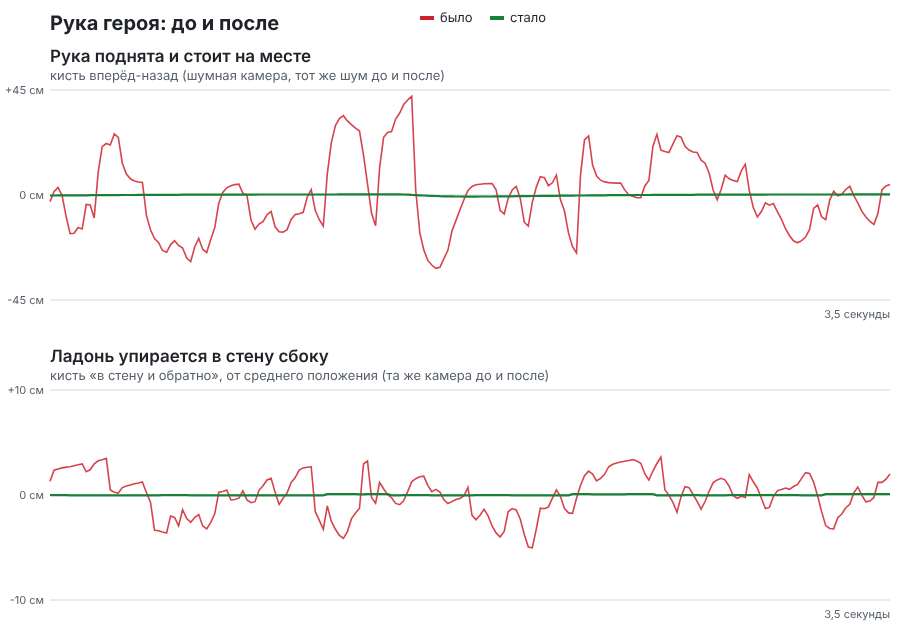
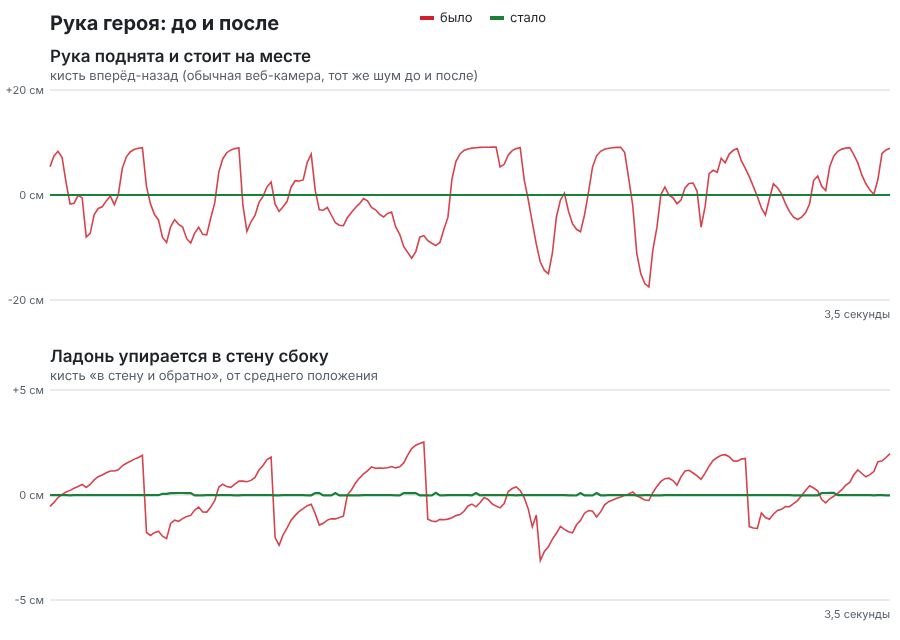
Рука: совместно с выносом вперёд сессии кистей — одно сглаживание (PoseSmoother), свой фильтр только на очень шумной камере
После вливания «Кисти V5» (PoseSmoother.PREDICT) моё сглаживание направлений руки делало медленный прицел палочкой
в 2–3 раза позже (pointing.test: ведение 145 → 400 мс), а вынос вперёд на шумной камере ловил шум.

- DirFilter включается по шуму камеры игрока (рывок направлений, выученный в покое — noise(), NOISY_LO/HI): обычная камера —
  без своего сглаживания (прицел: 90 / 100 / 140 мс при пределах 100 / 105 / 150), очень шумная — полностью
- остаётся всё, что убирает саму дрожь: полоса «в плоскости» по шуму, мягкая глубина, гистерезис стороны, сглаженная глубина,
  плавное перекидывание стороны; упор в стену без обратной связи
- armstab: обычная камера (как 720p в pointing.mjs) и очень шумная; до → после: покой 6…10 см / 3…4° → ≤ 1,4 см / 0,9°,
  шумная 18…21 см / 8…10° → ≤ 5,6 см / 4,1°; взмахи 48 → 41…47 мс; у стены плечо сквозь стену 38 см → 0, рывки до 18 см → ≤ 3,4;
  на очень шумной камере у стены рывки 10–35 см остаются (было 6–51) — вынос вперёд ловит шум, решать с сессией кистей
- снимок docs/media/arm-before-after.png пересобран на итоговом коде

Claude-Session: https://claude.ai/code/session_01Mpy7cnnFvsKTeaQNMqBwzz

diff --git a/src/entities/ArmSolver.js b/src/entities/ArmSolver.js
@@ -49,28 +49,35 @@ export const ARM = {
     PLANE_E: 0.2, // the depth's softness at the plane (planeDepth)
     NOISE_K: 3.5, DZ_LO: 0.02, DZ_HI: 0.08,
     NOISE_PX: 0.0028, // the prior: the camera's noise on a segment's length in the picture (height units; ≈ 1 cm of a real arm)
-    NOISE_MEAN: 0.12, NOISE_T: 2.0, // s: the length's own mean (its noise is what is off it); how slowly the noise is learnt
+    NOISE_INIT2: 6.4e-5, // (rad²: the jerk's start — a fair camera until it shows otherwise)
+    NOISE_INIT: 0.01, NOISE_MEAN: 0.12, NOISE_T: 1.5, // s: the length's own mean (its noise is what is off it); how slowly the noise is learnt
     NOISE_STILL: 1.2, // rad/s: only while the segment barely turns (a moving arm's length changes on purpose)
     REBASE: 0.3, // a side changing with the segment nearer the plane than this (of its length) glides there (DirFilter.rebase)
     SIGN_HYST: 0.06, // a side (in front / behind) changes only when the other is better by this much (no flicker on noise)
-    // the drawn directions, an adaptive 1€ on each segment's direction (the joints' angles, not the points): still — barely
-    // moves (the noise cut), moving — follows at once (a swing, a throw keep their speed: tools/armstab.mjs, throwbench)
-    F_MIN: 0.4, // Hz: the cutoff when still
+    // the drawn directions on a VERY noisy camera only: an adaptive 1€ on each segment's direction (DirFilter); a usual camera's
+    // arm is smoothed once, by PoseSmoother (whose carry ahead the wand's aim needs: tools/handbench/pointbench.mjs)
+    F_MIN: 0.4, // Hz: the cutoff when still (a very noisy camera)
     F_BETA: 12, // Hz more per rad/s of the arm's turn …
     F_W0: 1.2, // … past this (rad/s: the camera's noise, averaged, looks like a slow turn — it must not open the filter)
     F_DCUT: 3, // Hz: how fast the turn's speed is followed
     F_MAX: 30, // Hz
+    ONE_LO: 0.65, // one way: |the averaged velocity| ÷ the averaged |step| (the noise ≈ 0.3…0.5, a move ≈ 1) — under it, noise
+    // how noisy the camera is: the directions' jerk (a smooth move has next to none; a picture's noise is a kink), learnt while
+    // the input wanders every way: under NOISY_LO — a usual camera (tools/handbench/pointing.mjs's 720p webcam: ~0.008…0.014),
+    // the filter off; from NOISY_HI — a very noisy one (tools/armstab.mjs ×1: ~0.02…0.03), the filter full
+    NOISY_LO: 0.018, NOISY_HI: 0.026, J_STILL: 0.3, // (… learnt only while it turns slower than J_STILL rad/s)
     D_MIN: 1, // Hz: a segment's depth (out of the picture's plane) when the arm is still …
-    D_NEAR: 0.25, D_FAR: 60, // … and at once when it is well out of the plane (> D_NEAR of the segment: the noise there is small)
     D_JUMP: 0.1, D_FAST: 80, // … and at once when it changes by more than this share of the segment (a real move in depth)
 };
 
 /**
  * A unit direction's adaptive 1€ filter (pure, fixed memory): the cutoff from the turn's speed — the signed velocity averaged
  * (the camera's noise mostly cancels in it, unlike |the step|, which the noise alone keeps high) — past a dead band: still —
- * F_MIN (the noise cut), turning — up to F_MAX (a swing, a throw keep their speed). tools/armstab.mjs chose the numbers:
- * the camera's noise, already smoothed upstream (PoseStabilizer), is a slow wander no filter tells from a slow move without a
- * lag — these halve it and keep a swing ≤ 60 ms late; a hard or soft dead band, a look ahead gave less for more lag.
+ * F_MIN (the noise cut), turning — up to F_MAX (a swing, a throw keep their speed). Applied by how noisy the camera is (k:
+ * the directions' jerk learnt — noise()): a usual camera — not at all (PoseSmoother is the one smoothing, the wand's aim keeps
+ * its lead), a very noisy one — fully. It also knows the turn's speed (w) for the solver, and glides over a side the solver
+ * flipped (rebase). tools/armstab.mjs + tools/handbench/pointbench.mjs chose the numbers: a filter strong enough to still a
+ * usual camera's arm made a slow aim 2–3 times later — the wand's aim wins there.
  */
 export class DirFilter {
     constructor(o = ARM) {
@@ -78,22 +85,37 @@ export class DirFilter {
         this.x = 0; this.y = 0; this.z = 0; // what is drawn
         this.px = 0; this.py = 0; this.pz = 0; this.vx = 0; this.vy = 0; this.vz = 0; // the input before, its velocity
         this.w = 0; // the turn's speed now (rad/s)
+        this.m = 0; // the averaged size of its steps (rad/s)
+        this.qx = 0; this.qy = 0; this.qz = 0; this.j2 = -1; // the input two frames back; its jerk² averaged (the camera's noise: a
+        // smooth move, however slow or fast, has next to none — a picture's noise is a kink)
     }
     reset() { this.on = false; this.w = 0; }
     /** The input jumps here by itself (the solver chose the other side): not a turn — it must not open the filter. */
-    rebase(x, y, z) { if (this.on) { this.px = x; this.py = y; this.pz = z; } }
+    rebase(x, y, z) { if (this.on) { this.qx += x - this.px; this.qy += y - this.py; this.qz += z - this.pz; this.px = x; this.py = y; this.pz = z; } }
+    /** The camera's noise of this direction (rad, from the jerk: a frame's kink), learnt. */
+    noise() { return this.j2 > 0 ? Math.sqrt(this.j2) : Math.sqrt(this.o.NOISE_INIT2); }
     /** In: a unit direction (x, y, z), the frame's dt (s). The drawn direction into `out`. */
-    step(x, y, z, dt, out) {
+    step(x, y, z, dt, out, k = 1) {
         const o = this.o;
         if (!this.on || !(dt > 0) || dt > 0.5) {
-            this.x = this.px = x; this.y = this.py = y; this.z = this.pz = z;
-            this.vx = this.vy = this.vz = 0; this.w = 0; this.on = true;
+            this.x = this.px = this.qx = x; this.y = this.py = this.qy = y; this.z = this.pz = this.qz = z;
+            this.vx = this.vy = this.vz = 0; this.w = 0; this.m = 0; this.on = true;
         } else {
             const ad = alpha(o.F_DCUT, dt);
             this.vx += ad * ((x - this.px) / dt - this.vx); this.vy += ad * ((y - this.py) / dt - this.vy); this.vz += ad * ((z - this.pz) / dt - this.vz);
+            // (one way: |the averaged velocity| ÷ the averaged |step| — the camera's noise turns every way (≈ 0.3…0.5), a real
+            // move, however slow (a careful aim of the wand), goes one way (≈ 1): only the first teaches the noise)
+            this.m += ad * (Math.hypot(x - this.px, y - this.py, z - this.pz) / dt - this.m);
+            const jx = x - 2 * this.px + this.qx, jy = y - 2 * this.py + this.qy, jz = z - 2 * this.pz + this.qz, j2 = jx * jx + jy * jy + jz * jz;
+            // (learnt only while the input wanders every way — a move going one way, however slow, is not the camera's noise)
+            if (this.j2 < 0) this.j2 = o.NOISE_INIT2;
+            else if (this.w < o.J_STILL && (this.m <= 1e-6 || this.w / this.m < o.ONE_LO)) this.j2 += (Math.min(j2, 16 * this.j2 + 1e-6) - this.j2) * alpha(1 / (2 * Math.PI * o.NOISE_T), dt);
+            this.qx = this.px; this.qy = this.py; this.qz = this.pz;
             this.px = x; this.py = y; this.pz = z;
             this.w = Math.hypot(this.vx, this.vy, this.vz);
-            const a = alpha(Math.min(o.F_MAX, o.F_MIN + o.F_BETA * Math.max(0, this.w - o.F_W0)), dt);
+            // (k: how noisy this camera is — a usual one is not smoothed here at all: PoseSmoother is the one smoothing, the wand's
+            // aim keeps every millisecond; a very noisy one (a dark room, a far player, a poor webcam) — up to the full filter)
+            const a = 1 - k * (1 - alpha(Math.min(o.F_MAX, o.F_MIN + o.F_BETA * Math.max(0, this.w - o.F_W0)), dt));
             this.x += (x - this.x) * a; this.y += (y - this.y) * a; this.z += (z - this.z) * a;
             const l = Math.hypot(this.x, this.y, this.z) || 1;
             this.x /= l; this.y /= l; this.z /= l;
@@ -114,7 +136,7 @@ function noiseState() { return { m: 0, v: -1 }; }
  */
 function planeDz(N, L, l, w, dt) {
     const q = l / (L || 1), prior = ARM.NOISE_PX / (L || 1);
-    if (N.v < 0) { N.m = q; N.v = prior * prior; }
+    if (N.v < 0) { N.m = q; N.v = ARM.NOISE_INIT * ARM.NOISE_INIT; } // (a camera is taken for a fair one until it shows otherwise)
     N.m += (q - N.m) * alpha(1 / (2 * Math.PI * ARM.NOISE_MEAN), dt);
     if (w < ARM.NOISE_STILL) { const r = q - N.m; N.v += (r * r - N.v) * alpha(1 / (2 * Math.PI * ARM.NOISE_T), dt); }
     // (never far below the prior: a still arm in a perfectly still picture must not make the depth twitchy again)
@@ -166,6 +188,9 @@ export class ArmSolver {
         const ux = -(elbow.x - shoulder.x) * aspect, uy = -(elbow.y - shoulder.y);
         const fx = -(wrist.x - elbow.x) * aspect, fy = -(wrist.y - elbow.y);
         const lu = Math.hypot(ux, uy), lf = Math.hypot(fx, fy);
+        // (how noisy this camera is for this arm: 0 clean … 1 noisy — the noise of the segments' lengths, learnt while still)
+        const nq = Math.max(S.fu.noise(), S.ff.noise());
+        const kN = S.kN = nq <= ARM.NOISY_LO ? 0 : nq >= ARM.NOISY_HI ? 1 : (nq - ARM.NOISY_LO) / (ARM.NOISY_HI - ARM.NOISY_LO);
         // learn this player's lengths
         if (!S.seen) { S.Lu = Math.max(pu, lu); S.Lf = Math.max(pf, lf); S.seen = true; }
         S.Lu = this._learn(S.Lu, lu, pu); S.Lf = this._learn(S.Lf, lf, pf);
@@ -211,7 +236,7 @@ export class ArmSolver {
         out.rawU = out.rawU || { x: 0, y: 0, z: 0 }; out.rawF = out.rawF || { x: 0, y: 0, z: 0 };
         out.rawU.x = u.x; out.rawU.y = u.y; out.rawU.z = u.z; out.rawF.x = f.x; out.rawF.y = f.y; out.rawF.z = f.z;
         // the drawn directions: still — steady, moving — at once (DirFilter)
-        if (this.filter !== false) { u = S.fu.step(u.x, u.y, u.z, dt, u); f = S.ff.step(f.x, f.y, f.z, dt, f); }
+        if (this.filter !== false) { u = S.fu.step(u.x, u.y, u.z, dt, u, kN); f = S.ff.step(f.x, f.y, f.z, dt, f, kN); }
         // the shoulder girdle: up with a raised arm, back with an arm drawn behind, forward with a reach
         const reachF = Math.max(0, -(u.z * ARM.UPPER + f.z * ARM.FORE) / (ARM.UPPER + ARM.FORE));
         const gy = ARM.GIRDLE_UP * Math.max(0, u.y);

diff --git a/tests/unit/arm-stability.test.js b/tests/unit/arm-stability.test.js
@@ -21,11 +21,11 @@ test('an arm held still does not tremble — up, down, sideways, forward (good a
 test('a raised arm is never thrown forward and back by itself (the side flipping on the camera\'s noise; no twitch)', () => {
     for (const pose of ['overhead', 'tpose', 'raisedBent', 'rest']) {
         for (const seed of [3, 65]) {
-            const fr = run({ arm: () => POSES[pose], seconds: 5, seed }).filter((f) => f.t > 2.5);
+            const fr = run({ arm: () => POSES[pose], seconds: 5, seed, noise: 0.3 }).filter((f) => f.t > 2.5);
             let jump = 0, zMin = Infinity, zMax = -Infinity;
             for (let i = 1; i < fr.length; i++) jump = Math.max(jump, fr[i].hand.distanceTo(fr[i - 1].hand));
             for (const f of fr) { zMin = Math.min(zMin, f.up.z); zMax = Math.max(zMax, f.up.z); }
-            assert.ok(jump < 0.06, `${pose} (${seed}): a ${(jump * 100).toFixed(1)} cm twitch in one frame`);
+            assert.ok(jump < 0.04, `${pose} (${seed}): a ${(jump * 100).toFixed(1)} cm twitch in one frame`);
             assert.ok(zMax - zMin < 0.2, `${pose} (${seed}): the upper arm swings ${((zMax - zMin) * 57).toFixed(0)}° in and out of the picture (before: ±17°, a range of 0.6)`);
         }
     }
@@ -53,7 +53,7 @@ test('the depth at the picture\'s plane is gentle (√ was infinitely steep: the
     assert.ok(ARM.DZ_HI > ARM.DZ_LO);
 });
 
-test('the direction\'s filter: still — steady, turning — at once; a side flip glides (does not open it)', () => {
+test('the direction\'s filter (a very noisy camera): still — steady, turning — at once; a side flip glides (does not open it)', () => {
     const F = new DirFilter(), o = { x: 0, y: 0, z: 0 };
     F.step(1, 0, 0, 1 / 60, o);
     // noise ±1° about +x: the drawn direction moves far less

diff --git a/tests/unit/arm-collision.test.js b/tests/unit/arm-collision.test.js
@@ -33,7 +33,7 @@ test('a fingertip at a step\'s edge keeps the face it lay on (a stepped slope mu
 });
 
 test('pressed on a wall, a slope, a ceiling; the shoulder at a wall; walking along it: never in, no hysterics, no twitch', () => {
-    const r = wall({ seeds: 1 });
+    const r = wall({ seeds: 1, noise: 0.3 }); // (a usual camera — tools/armstab.mjs)
     for (const [k, v] of Object.entries(r)) {
         assert.ok(v.depthCm <= LIMITS.wallDepthCm, `${k}: ${v.depthCm.toFixed(1)} cm in it (before, the shoulder at a wall: 45 cm)`);
         assert.ok(v.ncm <= LIMITS.wallCm, `${k}: ${v.ncm.toFixed(2)} cm in and out`);

diff --git a/CLAUDE.md b/CLAUDE.md
@@ -29,7 +29,7 @@
 - **Бросок и отпускание — `src/game/ThrowModel.js`** (слова автора: «чтобы НИКОГДА больше не было, что человек отпустил кисть, а ничего не получилось», «замахнулся, кинул — а предмет просто упал вниз»): у каждой руки буфер ~0,7 с (`HandTrack`: кисть в теле и в мире, пальцы, видна ли камере); решение — по раскрытию пальцев на величину от хвата (уровни открытой/сжатой кисти учатся у этого игрока), скорости и пути руки; момент — назад по буферу, где пальцы начали раскрываться (`CURL_LAG_MS`, скорость руки читается на `POS_LAG_MS` позже). Бросок любой формы (сверху, от груди, снизу, сбоку, навесом, под ноги) — скорость руки в этот миг × `massGain` (взмах кисти и вес), предел `speedCap`, ≤ 10° к взгляду; пальцы увидены поздно после резкого замаха — вылет по пику (`LATE_MS`); кисть пропала в замахе — бросок по пику, в покое — ничего (держит); рука опускается вдоль тела, расслабляя пальцы, — не бросок (`throwShape`); спокойно разжатая вытянутая рука — падает С текущей скоростью руки. Палочка в ВЕДУЩЕЙ руке — только строгий бросок (`ThrowDetector strict`), в неосновной — как любая вещь. Время буфера — `PoseSmoother.eff` (миг, который показывает поза; без него скорость «бьётся» о кадры), фильтр локтей и запястий `PoseStabilizer` следит за скоростью быстрее (`POSE_ARM_DCUTOFF` = 4 Гц; стенд меряет тем же числом). Физика полёта: `ITEM_PHYS` (отскок, трение, качение, плавает/тонет), вода, планеты без воздуха; звук — `ThrowSounds.js`. Стенд: `node tools/throwbench.mjs --check` (синтетика по кинематике человека через тот же путь камеры: 15–60 Гц, задержка, шум, пропажи кисти, поздние пальцы; ложные — держит/ходьба/машет/рубит/бьёт/опускает руку), тесты `release-model.test.js`, `throw-physics.test.js`, e2e `throw.test.mjs`. Новая вещь — строка в `ITEM_PHYS` (иначе «мягкая»), вес в `ITEM_INFO`.
 - **Куда указывает палочка V5 и задержка кисти** (жалоба автора: «V5 подтормаживает, не указывает туда, куда нужно, нет плавности»; стенд `node tools/handbench/pointbench.mjs [--check] [--old DIR]` — вся цепочка камера → фильтры → нарисованная палочка на синтетических указаниях (покой по местам экрана, наведение, рывок, взмахи, медленное прицеливание; 720p/640×480/15 кадров/с/игра 30–144 FPS/левша), модуль `tools/handbench/pointing.mjs`, тест `tests/unit/pointing.test.js`; пороги только ужесточать): палочка лежит в ладони наискосок (`WAND_LINE`), поэтому кисть героя с палочкой V5 доворачивается в запястье к мизинцу на `SimplifiedHand.WAND_BEND` (34,5°, как у живого человека, пальцы держат хват) и прицел — настоящая кисть + предплечье (`src/game/V5WandAim.js`: `wandAimDir`, раньше угол хвата шёл в прицел — 34,7° мимо). Фильтры не путают медленное ровное движение с дрожью: скорость кисти — по усреднённым как вектор скоростям точек (`HandFilter`, дрожь — по второй разности, + прежняя скорость для поворотов ладони и пальцев), палочка — `AimSteady` (угловая скорость вектором). `PoseSmoother.PREDICT` показывает руки и кисти вперёд на возраст кадра (`pose.ts` от `PoseService`, время снимка — из программы камеры) + `EXTRA`, только уверенное движение в одну сторону (`ONE_WAY`, `RUN`), не дальше `ARM_MAX`/`HAND_MAX`, быстрые взмахи и рывки — нет (`FAST`, `FAST_HOLD`: без перелёта); рука, держащая вещь для броска, не предсказывается (`PoseSmoother.hold`, ставит `Items`: модели броска нужна настоящая скорость — throwbench). «Плавность камеры» управляет и кистью (`src/input/HandSmooth.js`, 70 % — подобрано стендом). Журнал «Руки»: строка «камера:» (`HandsLog.cameraLine`: поз/с, камера сама даёт N/с, от снимка до игры по частям — ждал/нейросети/прочее/доставка, вынос вперёд, почему редко). Программа камеры: время кадра — когда его прочли с камеры (`_LatestFrame.at`), `st`/`camFps` в каждом сообщении, потоки камеры выше обычного (`_boost_thread`, Windows), программа кистей V5 на видеокарте — обычный приоритет (была пониженной, наравне с нейросетью жителей), точки округлены (поток вдвое короче), `TCP_NODELAY` у сервера.
 - **Рука героя из камеры — `src/entities/ArmSolver.js`** (слова автора: «когда я замахиваюсь, рука не настолько реалистична… дело в самой руке, её ограничениях и примитивности»): длины плеча и предплечья ЭТОГО игрока в кадре учатся (от ширины плеч по пропорциям человека, потом по кадрам, где сегмент виден почти целиком — усреднением, не максимумом: лишние 9 % длины дают ложную глубину ≈ 25°); глубина сегмента ±√(L² − l²), сторона (перед/за телом) — выбор из четырёх по цене: глубина камеры, «впереди» как обычное место, без скачков вдали от плоскости кадра, анатомия (локоть ≤ 150°, плечо назад не дальше ~55°, предплечье и локоть не сквозь торс); плечевой пояс двигается (вверх с поднятой рукой, назад при замахе, вперёд при дотягивании). Старый `getRelativeDirection` (рука всегда впереди, одна длина на всех) оставлен только для сравнения. Стенд: `node tools/armbench.mjs --check` (бросок, Т-поза, дотягивание, над головой, на груди, за спиной, указание, взмахи; шумная камера + тот же 1€-фильтр), тест `arm-solver.test.js`. Числа — «на кадр при 30 кадрах/с», масштабируются по `dt`.
-- **Рука не дрожит и не проходит сквозь стены — `ArmSolver` (устойчивость) + `HandBlocks.keepOut`** (слова автора: «поднимаю руку вверх — шатается, дрожит… у стены или горы рука проходит сквозь гору и начинает дрожать, у неё истерика»; стенд `node tools/armstab.mjs --check` — весь путь игры: шумная камера → `PoseStabilizer` → `PoseSmoother` → `VoxelCharacter` → `HandBlocks`; тесты `arm-stability.test.js`, `arm-collision.test.js`; пороги только ужесточать). Найдено и исправлено: (1) рука в плоскости кадра (вверх, в сторону, вниз) — √(L² − l²) там бесконечно крутой, шум длины 2–3 % давал ±15° глубины, и сторона «перед/за» перекидывалась на шуме → полоса «в плоскости» = `NOISE_K` × шум длины, выученный у ЭТОЙ камеры и расстояния (`planeDz`), мягкий край (`planeDepth`, `PLANE_E`), гистерезис стороны (`SIGN_HYST`), глубина сглаживается отдельно (`depthStep`: в покое медленно, при движении сразу), перекидывание стороны рядом с плоскостью — плавно, не «движение» (`DirFilter.rebase`); (2) ОДНО сглаживание руки — адаптивный 1€ направлений сегментов (`DirFilter`: скорость поворота — усреднённая знаковая, шум её не открывает), старое `armK` в `Character` выключено (`armSmooth`); (3) упор в стену без обратной связи: каждый кадр упор считается заново из позы камеры (не из прошлого изгиба), рука скользит по грани туда, где её держит игрок (`slideOut`), грань прошлого кадра в приоритете (ступени горы не перескакивают), упор растёт сразу, отпускает плавно (`HOLD.BACK_T`), локоть сохраняет сгиб игрока (`reachHand(…, poleDir)`, `_bendWay`; прямая рука — обычный сгиб человека, без случайного), локоть и середины руки не в стене (`_elbowOut`, поворот вокруг линии плечо–кисть), плечо в стене (стоишь боком: плечо 0,7 от середины, тело 0,48) — луч от груди (`_origin`), раньше рука проходила насквозь. Журнал «Руки»: строка «рука: дрожь X см, рывок, частота поз, касание стены» раз в секунду, только когда держимая рука дрожит (`ArmShake`, `shakeLine`). Жест «рука поднята» — с гистерезисом (`Game._raisedHand`: 0,12/0,09, сторона и «обе» не мерцают). `HandBlocks.update(dt)` — время игры, не `performance.now()`.
+- **Рука не дрожит и не проходит сквозь стены — `ArmSolver` (устойчивость) + `HandBlocks.keepOut`** (слова автора: «поднимаю руку вверх — шатается, дрожит… у стены или горы рука проходит сквозь гору и начинает дрожать, у неё истерика»; стенд `node tools/armstab.mjs --check` — весь путь игры: камера с шумом → `PoseStabilizer` → `PoseSmoother` → `VoxelCharacter` → `HandBlocks`, обычная камера (×0,3, как веб-камера 720p в `tools/handbench/pointing.mjs`) и очень шумная (×1); тесты `arm-stability.test.js`, `arm-collision.test.js`; пороги только ужесточать). Найдено и исправлено: (1) рука в плоскости кадра (вверх, в сторону, вниз) — √(L² − l²) там бесконечно крутой, шум длины 2–3 % давал ±15° глубины, и сторона «перед/за» перекидывалась на шуме → полоса «в плоскости» = `NOISE_K` × шум длины, выученный у ЭТОЙ камеры и расстояния (`planeDz`), мягкий край (`planeDepth`, `PLANE_E`), гистерезис стороны (`SIGN_HYST`), глубина сглаживается отдельно (`depthStep`: в покое медленно, при движении сразу), перекидывание стороны рядом с плоскостью — плавно (`DirFilter.rebase`); (2) сглаживание руки ОДНО — `PoseSmoother` (его вынос вперёд нужен прицелу палочки — сессия кистей, `pointing.test.js`); `DirFilter` включается только на очень шумной камере (шум — по «рывку» направлений, `noise()`, `NOISY_LO/HI`), старое `armK` в `Character` выключено (`armSmooth`); сильнее сглаживать обычную камеру нельзя: медленное прицеливание становилось в 2–3 раза позже; (3) упор в стену без обратной связи: каждый кадр упор считается заново из позы камеры (не из прошлого изгиба), рука скользит по грани туда, где её держит игрок (`slideOut`), грань прошлого кадра в приоритете (ступени горы не перескакивают), упор растёт сразу, отпускает плавно (`HOLD.BACK_T`), локоть сохраняет сгиб игрока (`reachHand(…, poleDir)`, `_bendWay`; прямая рука — обычный сгиб человека), локоть и середины руки не в стене (`_elbowOut`, поворот вокруг линии плечо–кисть), плечо в стене (стоишь боком: плечо 0,7 от середины, тело 0,48) — луч от груди (`_origin`), раньше рука проходила насквозь. Не решено: на очень шумной камере вынос вперёд `PoseSmoother.PREDICT` ловит шум, и у стены кисть изредка дёргается на 10–35 см (было 6–51) — решать вместе с сессией кистей. Журнал «Руки»: строка «рука: дрожь X см, рывок, частота поз, касание стены» раз в секунду, только когда держимая рука дрожит (`ArmShake`, `shakeLine`). Жест «рука поднята» — с гистерезисом (`Game._raisedHand`: 0,12/0,09, сторона и «обе» не мерцают). `HandBlocks.update(dt)` — время игры, не `performance.now()`.
 - Случайных действий быть не должно: предмет выпадает, только если человек явно разжал вытянутую
   руку или по-настоящему бросил (замах и бросок).
 - Тесты — когда уместно (сложная логика, физика, сеть, или чтобы найденная ошибка не вернулась): unit + e2e с синтетическими
